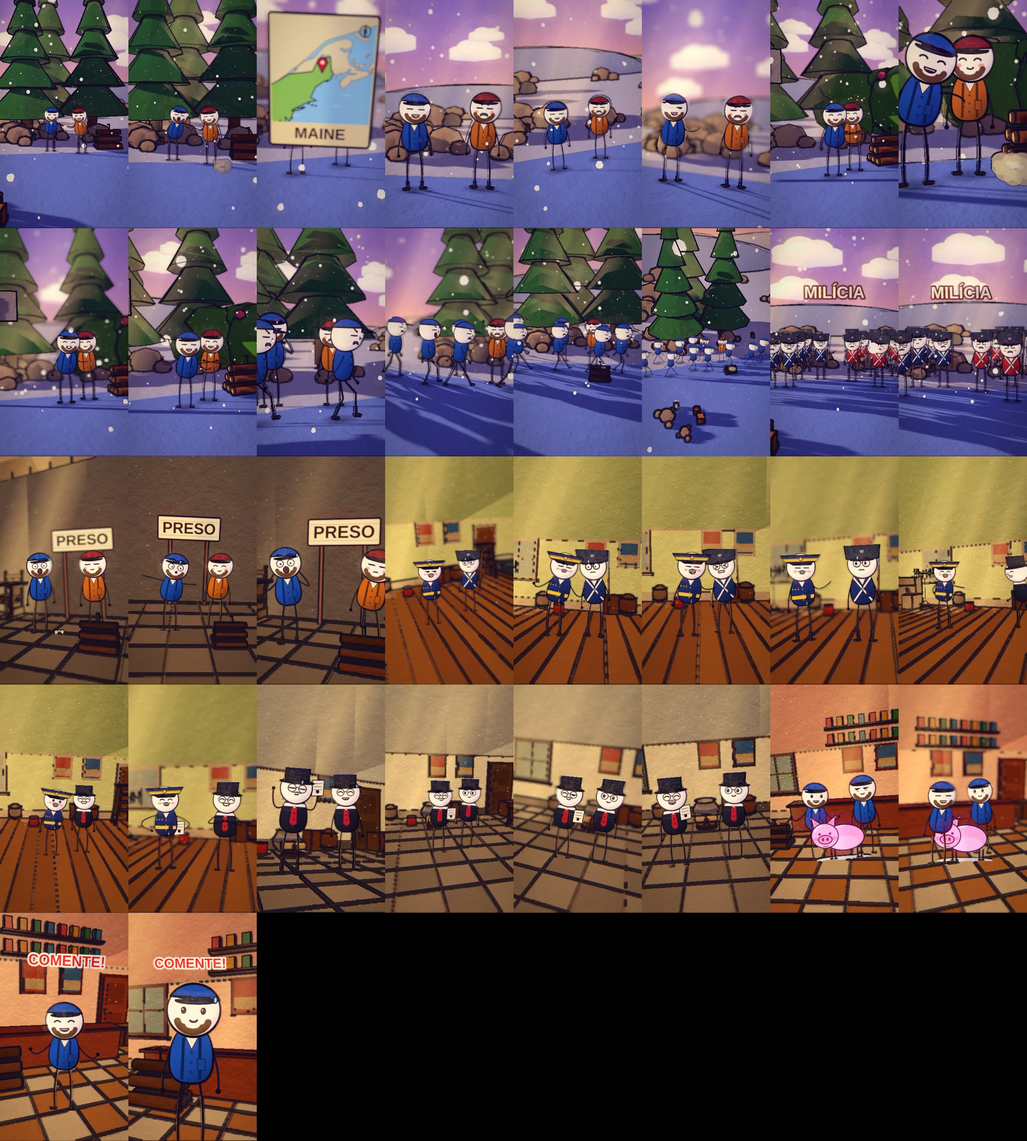
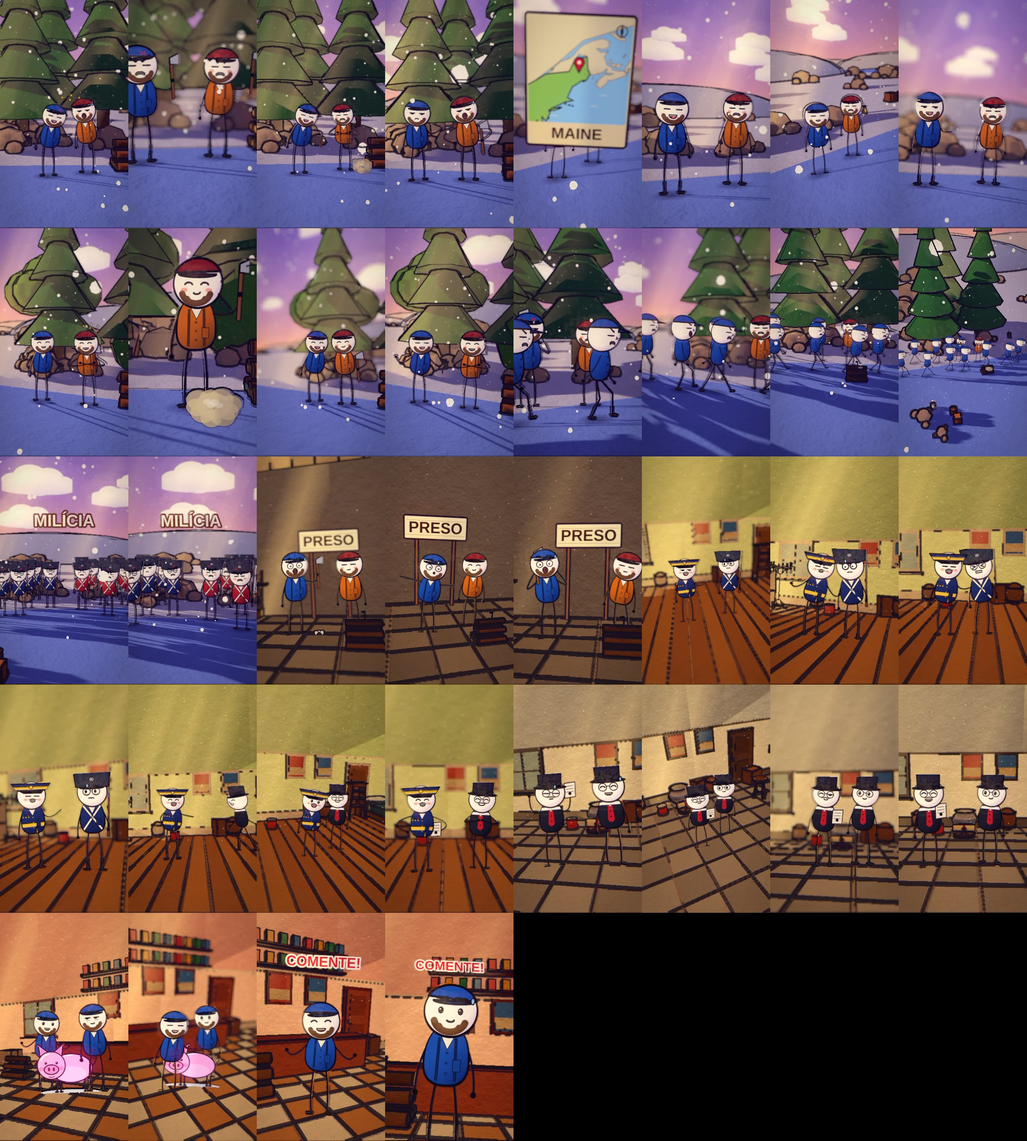
aroostook1838: render em andamento (4)
Claude-Session: https://claude.ai/code/session_01HE8Dy2XpEMgdYAHCmWZFay

diff --git a/ferramenta-shorts/stories/aroostook1838/spec.js b/ferramenta-shorts/stories/aroostook1838/spec.js
@@ -15,7 +15,7 @@ const SPEC = {
   assets: ["kit/logs", "kit/prison", "kit/room_azul_stone", "kit/room_europa_stone", "kit/room_rosa_shop", "kit/room_verde_wood", "kit/scroll", "mk/Barrel", "mk/Bed_Twin1", "mk/Bookcase_2", "mk/Cabinet", "mk/CandleStick_Stand", "mk/Chair_1", "mk/Chest_Wood", "mk/Crate_Wooden", "mk/Nightstand_Shelf", "mk/Shelf_Small_Bottles", "mk/Stool", "mk/Table_Large", "mk/Vase_2", "mk/Workbench_Drawers", "nature/bush", "nature/tree_oak", "nature/tree_pine"],
   kicks: [], flashes: [],
   shots: [
-    S('b0', A[0], Math.round(A[0] + (A[1] - 1 + 1 - (A[0])) * 0.36) - 1, X, "arctic", { h: 2.3, d0: 9.8, d1: 8.8, az0: -6, az1: 8, cx: 0.0, cz: 1.2, wx: {"snow": 0.85, "wind": 0.5}, vary: false, hero: { hero: 'any', frame: 'medium', minH: 0.07, main: 2 }, actors: [_MA(pp(X, "AME", 0, -1.0, 1.3, "angry", { over: { hold: "axe" }, pose: 'argue', inter: { k: 'lunge', a: Math.round(A[0] + (A[1] - 1 - (A[0])) * 0.12), b: Math.round(A[0] + (A[1] - 1 - (A[0])) * 0.82), dir: 1, n: 2, ph: 0 } }), { gests: [[WS(14) - 8, WS(14) + 46, 'hammer']] }), pp(X, "CAN", 0, 1.0, 1.0, "angry", { over: { hold: "axe" }, pose: 'argue', inter: { k: 'lunge', a: Math.round(A[0] + (A[1] - 1 - (A[0])) * 0.2), b: Math.round(A[0] + (A[1] - 1 - (A[0])) * 0.9), dir: -1, n: 2, ph: 3.14 } })], props: [{ asset: "kit/logs", at: [X + 3.0, 0.6], s: 1.3, drop: false }, { asset: "nature/tree_pine", at: [X + -3.0, -5.5], s: 1.6 }, { asset: "nature/tree_pine", at: [X + 3.2, -6.5], s: 1.7 }, { asset: "nature/tree_pine", at: [X + -1.0, -9.0], s: 1.8 }], fx: [{ k: 'stars', a: A[0] + 6, b: A[0] + 40, at: [X + 0.3, DK + 1.6, 2.7], s: 0.8 }, { k: 'dust', a: WS(14) + 0, b: WS(14) + 16, at: [X + 1.3, DK + 0.2, 2.6], s: 0.5 }, { k: 'dust', a: WS(14) + 9, b: WS(14) + 25, at: [X + 1.3, DK + 0.2, 2.6], s: 0.5 }, { k: 'dust', a: WS(14) + 18, b: WS(14) + 34, at: [X + 1.3, DK + 0.2, 2.6], s: 0.5 }] }), { ...S('b0_d', Math.round(A[0] + (A[1] - 1 + 1 - (A[0])) * 0.36), Math.round(A[0] + (A[1] - 1 + 1 - (A[0])) * 0.6) - 1, X, "arctic", { h: 2.3, d0: 9.8, d1: 8.8, az0: -6, az1: 8, cx: 0.0, cz: 1.2, wx: {"snow": 0.85, "wind": 0.5}, vary: false, hero: { hero: 'none', detalhe: true }, actors: [_MA(pp(X, "AME", 0, -1.0, 1.3, "angry", { over: { hold: "axe" }, pose: 'stand' }), { gests: [[WS(14) - 8, WS(14) + 46, 'hammer']] }), pp(X, "CAN", 0, 1.0, 1.0, "angry", { over: { hold: "axe" }, pose: 'stand' })], props: [{ asset: "kit/logs", at: [X + 3.0, 0.6], s: 1.3, drop: false }, { asset: "nature/tree_pine", at: [X + -3.0, -5.5], s: 1.6, drop: false }, { asset: "nature/tree_pine", at: [X + 3.2, -6.5], s: 1.7, drop: false }, { asset: "nature/tree_pine", at: [X + -1.0, -9.0], s: 1.8, drop: false }], fx: [{ k: 'stars', a: A[0] + 6, b: A[0] + 40, at: [X + 0.3, DK + 1.6, 2.7], s: 0.8 }, { k: 'dust', a: WS(14) + 0, b: WS(14) + 16, at: [X + 1.3, DK + 0.2, 2.6], s: 0.5 }, { k: 'dust', a: WS(14) + 9, b: WS(14) + 25, at: [X + 1.3, DK + 0.2, 2.6], s: 0.5 }, { k: 'dust', a: WS(14) + 18, b: WS(14) + 34, at: [X + 1.3, DK + 0.2, 2.6], s: 0.5 }] }), cam: [{ f: Math.round(A[0] + (A[1] - 1 + 1 - (A[0])) * 0.36), at: [X + 0.3, DK + 0.975, 2.2], d: 5.46, az: -14, el: 7, fov: 44 }, { f: Math.round(A[0] + (A[1] - 1 + 1 - (A[0])) * 0.6) - 1, at: [X + 0.3, DK + 0.975, 2.2], d: 4.82, az: -8, el: 6, fov: 44 }], nocut: true, vary: false, glide: true, glideN: 34 }, { ...S('b0_v', Math.round(A[0] + (A[1] - 1 + 1 - (A[0])) * 0.6), A[1] - 1, X, "arctic", { h: 2.3, d0: 9.8, d1: 8.8, az0: -6, az1: 8, cx: 0.0, cz: 1.2, wx: {"snow": 0.85, "wind": 0.5}, vary: false, hero: { hero: 'any', frame: 'medium', minH: 0.07, main: 2 }, actors: [_MA(pp(X, "AME", 0, -1.0, 1.3, "angry", { over: { hold: "axe" }, pose: 'argue', inter: { k: 'lunge', a: Math.round(A[0] + (A[1] - 1 - (A[0])) * 0.12), b: Math.round(A[0] + (A[1] - 1 - (A[0])) * 0.82), dir: 1, n: 2, ph: 0 } }), { gests: [[WS(14) - 8, WS(14) + 46, 'hammer']] }), pp(X, "CAN", 0, 1.0, 1.0, "angry", { over: { hold: "axe" }, pose: 'argue', inter: { k: 'lunge', a: Math.round(A[0] + (A[1] - 1 - (A[0])) * 0.2), b: Math.round(A[0] + (A[1] - 1 - (A[0])) * 0.9), dir: -1, n: 2, ph: 3.14 } })], props: [{ asset: "kit/logs", at: [X + 3.0, 0.6], s: 1.3, drop: false }, { asset: "nature/tree_pine", at: [X + -3.0, -5.5], s: 1.6, drop: false }, { asset: "nature/tree_pine", at: [X + 3.2, -6.5], s: 1.7, drop: false }, { asset: "nature/tree_pine", at: [X + -1.0, -9.0], s: 1.8, drop: false }], fx: [{ k: 'stars', a: A[0] + 6, b: A[0] + 40, at: [X + 0.3, DK + 1.6, 2.7], s: 0.8 }, { k: 'dust', a: WS(14) + 0, b: WS(14) + 16, at: [X + 1.3, DK + 0.2, 2.6], s: 0.5 }, { k: 'dust', a: WS(14) + 9, b: WS(14) + 25, at: [X + 1.3, DK + 0.2, 2.6], s: 0.5 }, { k: 'dust', a: WS(14) + 18, b: WS(14) + 34, at: [X + 1.3, DK + 0.2, 2.6], s: 0.5 }] }), glide: true, glideN: 34 },
+    S('b0', A[0], Math.round(A[0] + (A[1] - 1 + 1 - (A[0])) * 0.36) - 1, X, "arctic", { h: 2.5, d0: 11.4, d1: 10.2, az0: -6, az1: 8, cx: 0.0, cz: 1.2, wx: {"snow": 0.85, "wind": 0.5}, vary: false, hero: { hero: 'any', frame: 'medium', minH: 0.07, main: 2 }, actors: [_MA(pp(X, "AME", 0, -1.0, 1.3, "angry", { over: { hold: "axe" }, pose: 'argue', inter: { k: 'lunge', a: Math.round(A[0] + (A[1] - 1 - (A[0])) * 0.12), b: Math.round(A[0] + (A[1] - 1 - (A[0])) * 0.82), dir: 1, n: 2, ph: 0 } }), { gests: [[WS(14) - 8, WS(14) + 46, 'hammer']] }), pp(X, "CAN", 0, 1.0, 1.0, "angry", { over: { hold: "axe" }, pose: 'argue', inter: { k: 'lunge', a: Math.round(A[0] + (A[1] - 1 - (A[0])) * 0.2), b: Math.round(A[0] + (A[1] - 1 - (A[0])) * 0.9), dir: -1, n: 2, ph: 3.14 } })], props: [{ asset: "kit/logs", at: [X + 3.0, 0.6], s: 1.3, drop: false }, { asset: "nature/tree_pine", at: [X + -3.0, -5.5], s: 1.6 }, { asset: "nature/tree_pine", at: [X + 3.2, -6.5], s: 1.7 }, { asset: "nature/tree_pine", at: [X + -1.0, -9.0], s: 1.8 }], fx: [{ k: 'stars', a: A[0] + 6, b: A[0] + 40, at: [X + 0.3, DK + 1.6, 2.7], s: 0.8 }, { k: 'dust', a: WS(14) + 0, b: WS(14) + 16, at: [X + 1.3, DK + 0.2, 2.6], s: 0.5 }, { k: 'dust', a: WS(14) + 9, b: WS(14) + 25, at: [X + 1.3, DK + 0.2, 2.6], s: 0.5 }, { k: 'dust', a: WS(14) + 18, b: WS(14) + 34, at: [X + 1.3, DK + 0.2, 2.6], s: 0.5 }] }), { ...S('b0_d', Math.round(A[0] + (A[1] - 1 + 1 - (A[0])) * 0.36), Math.round(A[0] + (A[1] - 1 + 1 - (A[0])) * 0.6) - 1, X, "arctic", { h: 2.5, d0: 11.4, d1: 10.2, az0: -6, az1: 8, cx: 0.0, cz: 1.2, wx: {"snow": 0.85, "wind": 0.5}, vary: false, hero: { hero: 'none', detalhe: true }, actors: [_MA(pp(X, "AME", 0, -1.0, 1.3, "angry", { over: { hold: "axe" }, pose: 'stand' }), { gests: [[WS(14) - 8, WS(14) + 46, 'hammer']] }), pp(X, "CAN", 0, 1.0, 1.0, "angry", { over: { hold: "axe" }, pose: 'stand' })], props: [{ asset: "kit/logs", at: [X + 3.0, 0.6], s: 1.3, drop: false }, { asset: "nature/tree_pine", at: [X + -3.0, -5.5], s: 1.6, drop: false }, { asset: "nature/tree_pine", at: [X + 3.2, -6.5], s: 1.7, drop: false }, { asset: "nature/tree_pine", at: [X + -1.0, -9.0], s: 1.8, drop: false }], fx: [{ k: 'stars', a: A[0] + 6, b: A[0] + 40, at: [X + 0.3, DK + 1.6, 2.7], s: 0.8 }, { k: 'dust', a: WS(14) + 0, b: WS(14) + 16, at: [X + 1.3, DK + 0.2, 2.6], s: 0.5 }, { k: 'dust', a: WS(14) + 9, b: WS(14) + 25, at: [X + 1.3, DK + 0.2, 2.6], s: 0.5 }, { k: 'dust', a: WS(14) + 18, b: WS(14) + 34, at: [X + 1.3, DK + 0.2, 2.6], s: 0.5 }] }), cam: [{ f: Math.round(A[0] + (A[1] - 1 + 1 - (A[0])) * 0.36), at: [X + 0.3, DK + 0.975, 2.2], d: 5.46, az: -14, el: 7, fov: 44 }, { f: Math.round(A[0] + (A[1] - 1 + 1 - (A[0])) * 0.6) - 1, at: [X + 0.3, DK + 0.975, 2.2], d: 4.82, az: -8, el: 6, fov: 44 }], nocut: true, vary: false, glide: true, glideN: 34 }, { ...S('b0_v', Math.round(A[0] + (A[1] - 1 + 1 - (A[0])) * 0.6), A[1] - 1, X, "arctic", { h: 2.5, d0: 11.4, d1: 10.2, az0: -6, az1: 8, cx: 0.0, cz: 1.2, wx: {"snow": 0.85, "wind": 0.5}, vary: false, hero: { hero: 'any', frame: 'medium', minH: 0.07, main: 2 }, actors: [_MA(pp(X, "AME", 0, -1.0, 1.3, "angry", { over: { hold: "axe" }, pose: 'argue', inter: { k: 'lunge', a: Math.round(A[0] + (A[1] - 1 - (A[0])) * 0.12), b: Math.round(A[0] + (A[1] - 1 - (A[0])) * 0.82), dir: 1, n: 2, ph: 0 } }), { gests: [[WS(14) - 8, WS(14) + 46, 'hammer']] }), pp(X, "CAN", 0, 1.0, 1.0, "angry", { over: { hold: "axe" }, pose: 'argue', inter: { k: 'lunge', a: Math.round(A[0] + (A[1] - 1 - (A[0])) * 0.2), b: Math.round(A[0] + (A[1] - 1 - (A[0])) * 0.9), dir: -1, n: 2, ph: 3.14 } })], props: [{ asset: "kit/logs", at: [X + 3.0, 0.6], s: 1.3, drop: false }, { asset: "nature/tree_pine", at: [X + -3.0, -5.5], s: 1.6, drop: false }, { asset: "nature/tree_pine", at: [X + 3.2, -6.5], s: 1.7, drop: false }, { asset: "nature/tree_pine", at: [X + -1.0, -9.0], s: 1.8, drop: false }], fx: [{ k: 'stars', a: A[0] + 6, b: A[0] + 40, at: [X + 0.3, DK + 1.6, 2.7], s: 0.8 }, { k: 'dust', a: WS(14) + 0, b: WS(14) + 16, at: [X + 1.3, DK + 0.2, 2.6], s: 0.5 }, { k: 'dust', a: WS(14) + 9, b: WS(14) + 25, at: [X + 1.3, DK + 0.2, 2.6], s: 0.5 }, { k: 'dust', a: WS(14) + 18, b: WS(14) + 34, at: [X + 1.3, DK + 0.2, 2.6], s: 0.5 }] }), glide: true, glideN: 34 },
     S('b1', A[1], A[2] - 1, X, "arctic", { h: 2.3, d0: 9.8, d1: 8.8, az0: -26, az1: -12, wx: {"snow": 0.85, "wind": 0.5}, vary: false, hero: { hero: 'any', frame: 'medium', minH: 0.07, main: 2 }, trans: 'dissolve', actors: [_MA(pp(X, "AME", 0, -1.0, 1.3, "neutral", { pose: 'talk', inter: { k: 'shiver', a: Math.round(A[1] + (A[2] - 1 - (A[1])) * 0.12), b: Math.round(A[1] + (A[2] - 1 - (A[1])) * 0.82), dir: 1, n: 2, ph: 0 } }), { gests: [[WS(44) - 8, WS(44) + 46, 'point']] }), pp(X, "CAN", 0, 1.0, 1.0, "angry", { pose: 'talk', inter: { k: 'shiver', a: Math.round(A[1] + (A[2] - 1 - (A[1])) * 0.2), b: Math.round(A[1] + (A[2] - 1 - (A[1])) * 0.9), dir: -1, n: 2, ph: 3.14 } })], fx: [{ k: 'map', a: WS(21, -2), b: Math.min(A[2] - 1, WS(21, -2) + 54), text: "MAINE", geo: {"polys": [[90, 273, 206, 256, 234, 195, 292, 181, 299, 244, 311, 265, 293, 296, 266, 301, 242, 320, 224, 331, 200, 387, 231, 401, 191, 410, 113, 451, 112, 470, 92, 518, 69, 492, 79, 552, 60, 577, 44, 551, 46, 527, 45, 511, 36, 531, 34, 559, 12, 552, 24, 568, 42, 605, 44, 613, 57, 649, 37, 656, 38, 679, 25, 697, 2, 723, -46, 775, -83, 809, -101, 828, -108, 858, -84, 989, -88, 981, -102, 1110, -126, 1054, -139, 998, -150, 948, -226, 918, -254, 887, -289, 892, -330, 890, -355, 902, -356, 921, -351, 940, -377, 938, -427, 918, -480, 909, -515, 939, -563, 962, -579, 997, -586, 1060, -637, 1058, -673, 974, -731, 913, -794, 926, -881, 833, -1077, 814, -1183, 768, -1273, 718, -1316, 635, -1321, 589, -1323, 566, -1357, 546, -1384, 451, -1384, 339, -1364, 221, -1380, 199, -1381, 137, -1352, 172, -1337, 158, -1345, 182, -1328, 149, -1338, 126, -1262, 104, -983, 104, -704, 104, -510, 98, -440, 127, -362, 146, -242, 175, -189, 221, -136, 307, -133, 409, -40, 353, 57, 295], [155, 443, 153, 445, 155, 446, 157, 445, 158, 443, 162, 441, 165, 440, 166, 440, 168, 441, 171, 440, 174, 439, 161, 447, 158, 447, 154, 449, 151, 451, 148, 451, 135, 457, 134, 457, 133, 456, 122, 459, 118, 459, 114, 460, 117, 458, 117, 457, 116, 457, 115, 457, 113, 459, 111, 460, 110, 457, 111, 455, 112, 454, 115, 451, 118, 449, 120, 448, 121, 449, 122, 447, 123, 446, 124, 445, 126, 445, 128, 445, 129, 445, 130, 444, 133, 445, 135, 445, 138, 444, 140, 444, 146, 443, 152, 442, 154, 441, 160, 437, 163, 436, 158, 440, 155, 443], [284, 301, 282, 302, 281, 301, 281, 304, 280, 304, 278, 303, 277, 303, 278, 300, 279, 297, 281, 296, 283, 296, 284, 300, 284, 301], [105, 462, 104, 462, 105, 458, 108, 457, 109, 457, 109, 458, 109, 460, 107, 461, 105, 462], [215, 426, 207, 428, 205, 427, 208, 426, 210, 423, 212, 423, 215, 424, 215, 426], [193, 421, 192, 422, 190, 422, 191, 421, 191, 418, 192, 416, 193, 415, 193, 414, 193, 421], [231, 431, 229, 431, 223, 430, 228, 429, 228, 428, 229, 426, 229, 425, 231, 429, 231, 431], [190, 421, 189, 422, 188, 420, 189, 418, 190, 418, 190, 419, 190, 421], [107, 498, 104, 504, 104, 503, 108, 495, 107, 498], [6206, 387, 6239, 260, 6313, 170, 6205, 125, 6093, 9, 6016, -80, 5864, 45, 5648, 86, 5447, 43, 5306, -12, 5228, 63, 5116, 37, 4991, 63, 4895, 76, 4759, 31, 4611, -94, 4508, -111, 4361, -164, 4160, -106, 4116, -30, 4033, 20, 3885, -2, 3749, 62, 3763, 198, 3715, 280, 3720, 423, 3614, 366, 3416, 256, 3452, 182, 3502, 101, 3392, 45, 3315, -38, 3289, -84, 3206, -186, 3129, -258, 3183, -362, 3210, -518, 3181, -652, 3251, -772, 3467, -716, 3264, -665, 3435, -527, 3568, -636, 3705, -695, 3877, -717, 4052, -740, 4331, -723, 4381, -911, 4490, -691, 4542, -697, 4511, -752, 4581, -837, 4722, -869, 4791, -832, 4896, -943, 4909, -1000, 5213, -1041, 5412, -1113, 5658, -1058, 5563, -956, 5644, -944, 5842, -932, 6083, -927, 6163, -859, 6421, -836, 6593, -899, 6734, -884, 7076, -792, 7379, -735, -3006, -724, -2873, -635, -2820, -658, -2811, -598, -2834, -547, -3008, -617, 7566, -576, 7637, -518, 7568, -464, 7371, -374, 7171, -325, 7169, -215, 7034, -50, 7029, -281, 7210, -477, 7088, -442, 6891, -329, 6743, -331, 6357, -157, 6431, -88, 6501, 60, 6285, 367], [-1557, -188, -1649, -281, -1749, -332, -1884, -400, -1803, -753, -1690, -763, -1623, -773, -1622, -759, -1611, -760, -1526, -773, -1413, -764, -1390, -759, -1170, -740, -1122, -698, -958, -696, -900, -649, -900, -690, -858, -720, -826, -725, -685, -693, -580, -695, -563, -712, -528, -658, -528, -702, -499, -742, -509, -768, -557, -838, -472, -852, -431, -794, -382, -765, -366, -718, -315, -708, -229, -734, -222, -777, -109, -737, -118, -689, -197, -651, -214, -628, -328, -603, -304, -586, -361, -530, -474, -530, -399, -486, -444, -456, -487, -418, -491, -304, -398, -246, -208, -162, -136, -69, -71, 7, -37, -12, -40, -106, 36, -214, 4, -349, -3, -408, 93, -452, 163, -430, 240, -403, 243, -349, 255, -316, 294, -289, 349, -309, 378, -336, 400, -365, 432, -317, 465, -276, 467, -223, 501, -189, 535, -146, 560, -110, 554, -97, 644, -91, 631, -10, 444, 48, 270, 106, 146, 219, 4, 331, -158, 407, -180, 226, -303, 140, -447, 123, -628, 104, -1085, 104, -1353, 98, -1377, 72, -1406, 48, -1450, 35, -1458, -11, -1472, -40, -1505, -42, -1519, -94, -1553, -118, -1559, -180], [495, 233, 496, 233, 500, 231, 502, 231, 502, 233, 499, 234, 497, 235, 499, 236, 499, 237, 497, 239, 495, 241, 496, 243, 500, 241, 502, 241, 504, 241, 506, 241, 507, 240, 514, 233, 514, 232, 507, 233, 506, 232, 511, 228, 510, 225, 513, 222, 515, 220, 517, 218, 519, 217, 521, 219, 521, 222, 525, 222, 529, 222, 532, 224, 532, 224, 532, 226, 531, 228, 530, 230, 533, 232, 533, 233, 528, 235, 525, 238, 522, 241, 516, 245, 508, 248, 505, 248, 502, 247, 499, 247, 496, 248, 493, 248, 491, 248, 490, 248, 488, 247, 486, 244, 485, 242, 483, 233, 484, 228, 486, 223, 489, 220, 491, 218, 499, 203, 500, 200, 502, 197, 505, 194, 510, 189, 511, 188, 513, 188, 516, 188, 515, 190, 515, 191, 518, 198, 518, 199, 516, 204, 514, 213, 513, 218, 513, 219, 512, 221, 511, 223, 506, 226, 503, 227, 501, 228, 495, 233], [316, 266, 311, 265, 308, 264, 306, 258, 305, 253, 307, 249, 302, 246, 297, 244, 296, 239, 296, 236, 296, 229, 296, 204, 292, 181, 279, 173, 265, 179, 259, 176, 253, 168, 241, 185, 229, 206, 222, 224, 221, 234, 216, 243, 210, 253, 206, 256, 203, 262, 199, 260, 188, 264, 148, 272, 98, 272, 103, 265, 125, 253, 133, 236, 156, 215, 167, 207, 193, 198, 219, 183, 236, 162, 260, 134, 277, 123, 316, 105, 364, 92, 401, 107, 394, 110, 398, 128, 384, 137, 368, 145, 349, 139, 336, 141, 339, 143, 359, 159, 372, 154, 388, 157, 376, 178, 378, 184, 382, 193, 388, 209, 393, 220, 413, 224, 418, 236, 429, 240, 441, 240, 451, 245, 462, 242, 472, 242, 485, 245, 487, 255, 497, 260, 490, 263, 479, 267, 461, 275, 436, 285, 425, 288, 422, 292, 414, 293, 407, 290, 400, 292, 399, 303, 388, 314, 374, 326, 368, 333, 362, 334, 353, 324, 345, 323, 353, 291, 347, 294, 359, 287, 362, 284, 382, 268, 395, 258, 398, 265, 403, 266, 428, 257, 399, 256, 384, 258, 392, 246, 397, 238, 390, 234, 377, 250, 351, 263, 347, 256, 345, 263, 334, 267, 322, 267], [474, 99, 462, 100, 452, 97, 445, 96, 437, 94, 422, 86, 420, 84, 418, 81, 415, 78, 412, 76, 396, 68, 394, 66, 398, 64, 402, 63, 405, 63, 416, 66, 430, 69, 436, 71, 443, 73, 449, 77, 464, 86, 467, 87, 474, 91, 476, 95, 477, 98, 476, 99, 474, 99], [414, 211, 415, 211, 417, 210, 418, 207, 423, 207, 425, 209, 426, 209, 428, 209, 430, 211, 435, 213, 440, 212, 447, 211, 448, 211, 456, 210, 464, 210, 466, 211, 467, 212, 468, 213, 463, 215, 459, 219, 453, 222, 452, 223, 452, 226, 452, 229, 453, 229, 454, 230, 453, 231, 446, 232, 444, 231, 442, 230, 441, 227, 439, 228, 438, 228, 442, 225, 440, 222, 438, 222, 437, 221, 437, 219, 439, 218, 439, 217, 437, 218, 435, 220, 433, 220, 431, 222, 434, 222, 432, 224, 430, 224, 422, 221, 420, 221, 417, 218, 415, 215, 416, 215, 416, 214, 416, 214, 413, 213, 408, 213, 406, 212, 406, 207, 405, 205, 402, 204, 397, 203, 397, 201, 398, 198, 400, 195, 402, 192, 404, 190, 409, 185, 409, 189, 409, 192, 406, 198, 412, 203, 412, 205, 413, 206, 412, 208, 412, 209, 414, 209, 414, 211], [534, 318, 530, 319, 527, 319, 525, 318, 524, 317, 530, 318, 532, 317, 536, 315, 534, 318], [499, 252, 498, 252, 498, 252, 496, 250, 496, 249, 497, 248, 501, 249, 500, 251, 499, 252], [471, 176, 472, 177, 474, 177, 475, 177, 473, 179, 470, 179, 468, 178, 471, 170, 473, 168, 479, 163, 482, 161, 484, 161, 486, 161, 484, 164, 481, 164, 478, 167, 476, 170, 473, 171, 472, 173, 471, 176], [394, 151, 393, 154, 390, 156, 389, 156, 388, 156, 389, 154, 389, 152, 391, 151, 392, 151, 394, 151], [395, 147, 391, 150, 393, 146, 393, 146, 394, 145, 394, 145, 395, 147], [341, 303, 340, 304, 340, 303, 342, 299, 343, 298, 341, 303], [327, 286, 323, 288, 324, 283, 325, 281, 327, 282, 327, 285, 327, 286], [124, 253, 122, 254, 118, 253, 113, 254, 112, 254, 115, 251, 120, 249, 125, 243, 127, 243, 125, 250, 124, 252, 124, 253], [120, 248, 117, 249, 115, 248, 119, 244, 124, 243, 120, 248], [200, 193, 197, 194, 198, 192, 201, 190, 204, 188, 206, 188, 203, 191, 200, 193]], "hl": [0, 1, 2, 3, 4, 5, 6, 7, 8], "pin": [254.0, 260.0]} }] }),
     S('b2', A[2], Math.round(A[2] + (A[3] - 1 + 1 - (A[2])) * 0.36) - 1, X, "arctic", { h: 2.5, d0: 11.4, d1: 10.2, az0: 16, az1: 30, wx: {"snow": 0.85, "wind": 0.5}, vary: false, hero: { hero: 'any', frame: 'medium', minH: 0.07, main: 2 }, trans: 'dissolve', actors: [_MA(pp(X, "AME", 0, -1.0, 1.3, "smug", { over: { hold: "axe" }, pose: 'argue', inter: { k: 'step', a: Math.round(A[2] + (A[3] - 1 - (A[2])) * 0.12), b: Math.round(A[2] + (A[3] - 1 - (A[2])) * 0.82), dir: 1, n: 2, ph: 0 } }), { gests: [[WS(49) - 8, Math.max(WS(49) + 14, WS(53) - 5), 'hammer'], [WS(53) - 8, WS(53) + 46, 'hammer']] }), pp(X, "CAN", 0, 1.0, 1.0, "smug", { over: { hold: "axe" }, pose: 'argue', inter: { k: 'nod', a: Math.round(A[2] + (A[3] - 1 - (A[2])) * 0.2), b: Math.round(A[2] + (A[3] - 1 - (A[2])) * 0.9), dir: -1, n: 2, ph: 3.14 } })], props: [{ asset: "kit/logs", at: [X + 3.0, 0.6], s: 1.3, drop: false }, { asset: "nature/tree_pine", at: [X + -3.0, -5.5], s: 1.6 }, { asset: "nature/tree_pine", at: [X + 3.2, -6.5], s: 1.7 }, { asset: "nature/tree_oak", at: [X + -5.0, -9.0], s: 1.5 }, { asset: "nature/bush", at: [X + 6.5, -4.5], s: 4.1 }], fx: [{ k: 'stars', a: A[2] + 6, b: A[2] + 40, at: [X + 1.2, DK + 1.6, 1.1], s: 0.8 }, { k: 'dust', a: WS(49) + 0, b: WS(49) + 16, at: [X + 1.3, DK + 0.2, 2.6], s: 0.5 }, { k: 'dust', a: WS(49) + 9, b: WS(49) + 25, at: [X + 1.3, DK + 0.2, 2.6], s: 0.5 }, { k: 'dust', a: WS(49) + 18, b: WS(49) + 34, at: [X + 1.3, DK + 0.2, 2.6], s: 0.5 }, { k: 'dust', a: WS(53) + 0, b: WS(53) + 16, at: [X + 1.3, DK + 0.2, 2.6], s: 0.5 }, { k: 'dust', a: WS(53) + 9, b: WS(53) + 25, at: [X + 1.3, DK + 0.2, 2.6], s: 0.5 }, { k: 'dust', a: WS(53) + 18, b: WS(53) + 34, at: [X + 1.3, DK + 0.2, 2.6], s: 0.5 }] }), { ...S('b2_d', Math.round(A[2] + (A[3] - 1 + 1 - (A[2])) * 0.36), Math.round(A[2] + (A[3] - 1 + 1 - (A[2])) * 0.6) - 1, X, "arctic", { h: 2.5, d0: 11.4, d1: 10.2, az0: 16, az1: 30, wx: {"snow": 0.85, "wind": 0.5}, vary: false, hero: { hero: 'none', detalhe: true }, trans: 'cut', actors: [_MA(pp(X, "AME", 0, -1.0, 1.3, "smug", { over: { hold: "axe" }, pose: 'stand' }), { gests: [[WS(49) - 8, Math.max(WS(49) + 14, WS(53) - 5), 'hammer'], [WS(53) - 8, WS(53) + 46, 'hammer']] }), pp(X, "CAN", 0, 1.0, 1.0, "smug", { over: { hold: "axe" }, pose: 'stand' })], props: [{ asset: "kit/logs", at: [X + 3.0, 0.6], s: 1.3, drop: false }, { asset: "nature/tree_pine", at: [X + -3.0, -5.5], s: 1.6, drop: false }, { asset: "nature/tree_pine", at: [X + 3.2, -6.5], s: 1.7, drop: false }, { asset: "nature/tree_oak", at: [X + -5.0, -9.0], s: 1.5, drop: false }, { asset: "nature/bush", at: [X + 6.5, -4.5], s: 4.1, drop: false }], fx: [{ k: 'stars', a: A[2] + 6, b: A[2] + 40, at: [X + 1.2, DK + 1.6, 1.1], s: 0.8 }, { k: 'dust', a: WS(49) + 0, b: WS(49) + 16, at: [X + 1.3, DK + 0.2, 2.6], s: 0.5 }, { k: 'dust', a: WS(49) + 9, b: WS(49) + 25, at: [X + 1.3, DK + 0.2, 2.6], s: 0.5 }, { k: 'dust', a: WS(49) + 18, b: WS(49) + 34, at: [X + 1.3, DK + 0.2, 2.6], s: 0.5 }, { k: 'dust', a: WS(53) + 0, b: WS(53) + 16, at: [X + 1.3, DK + 0.2, 2.6], s: 0.5 }, { k: 'dust', a: WS(53) + 9, b: WS(53) + 25, at: [X + 1.3, DK + 0.2, 2.6], s: 0.5 }, { k: 'dust', a: WS(53) + 18, b: WS(53) + 34, at: [X + 1.3, DK + 0.2, 2.6], s: 0.5 }] }), cam: [{ f: Math.round(A[2] + (A[3] - 1 + 1 - (A[2])) * 0.36), at: [X + 1.2, DK + 0.975, 0.6], d: 5.46, az: -14, el: 7, fov: 44 }, { f: Math.round(A[2] + (A[3] - 1 + 1 - (A[2])) * 0.6) - 1, at: [X + 1.2, DK + 0.975, 0.6], d: 4.82, az: -8, el: 6, fov: 44 }], nocut: true, vary: false, glide: true, glideN: 34 }, { ...S('b2_v', Math.round(A[2] + (A[3] - 1 + 1 - (A[2])) * 0.6), A[3] - 1, X, "arctic", { h: 2.5, d0: 11.4, d1: 10.2, az0: 16, az1: 30, wx: {"snow": 0.85, "wind": 0.5}, vary: false, hero: { hero: 'any', frame: 'medium', minH: 0.07, main: 2 }, trans: 'cut', actors: [_MA(pp(X, "AME", 0, -1.0, 1.3, "smug", { over: { hold: "axe" }, pose: 'argue', inter: { k: 'step', a: Math.round(A[2] + (A[3] - 1 - (A[2])) * 0.12), b: Math.round(A[2] + (A[3] - 1 - (A[2])) * 0.82), dir: 1, n: 2, ph: 0 } }), { gests: [[WS(49) - 8, Math.max(WS(49) + 14, WS(53) - 5), 'hammer'], [WS(53) - 8, WS(53) + 46, 'hammer']] }), pp(X, "CAN", 0, 1.0, 1.0, "smug", { over: { hold: "axe" }, pose: 'argue', inter: { k: 'nod', a: Math.round(A[2] + (A[3] - 1 - (A[2])) * 0.2), b: Math.round(A[2] + (A[3] - 1 - (A[2])) * 0.9), dir: -1, n: 2, ph: 3.14 } })], props: [{ asset: "kit/logs", at: [X + 3.0, 0.6], s: 1.3, drop: false }, { asset: "nature/tree_pine", at: [X + -3.0, -5.5], s: 1.6, drop: false }, { asset: "nature/tree_pine", at: [X + 3.2, -6.5], s: 1.7, drop: false }, { asset: "nature/tree_oak", at: [X + -5.0, -9.0], s: 1.5, drop: false }, { asset: "nature/bush", at: [X + 6.5, -4.5], s: 4.1, drop: false }], fx: [{ k: 'stars', a: A[2] + 6, b: A[2] + 40, at: [X + 1.2, DK + 1.6, 1.1], s: 0.8 }, { k: 'dust', a: WS(49) + 0, b: WS(49) + 16, at: [X + 1.3, DK + 0.2, 2.6], s: 0.5 }, { k: 'dust', a: WS(49) + 9, b: WS(49) + 25, at: [X + 1.3, DK + 0.2, 2.6], s: 0.5 }, { k: 'dust', a: WS(49) + 18, b: WS(49) + 34, at: [X + 1.3, DK + 0.2, 2.6], s: 0.5 }, { k: 'dust', a: WS(53) + 0, b: WS(53) + 16, at: [X + 1.3, DK + 0.2, 2.6], s: 0.5 }, { k: 'dust', a: WS(53) + 9, b: WS(53) + 25, at: [X + 1.3, DK + 0.2, 2.6], s: 0.5 }, { k: 'dust', a: WS(53) + 18, b: WS(53) + 34, at: [X + 1.3, DK + 0.2, 2.6], s: 0.5 }] }), glide: true, glideN: 34 },
     { ...{ ...S('b3', A[3], Math.round(A[3] + (A[4] - 1 + 1 - (A[3])) * 0.3) - 1, X, "arctic", { h: 2.6, d0: 25.0, d1: 19.0, el: 11, fov: 46, cx: 0.0, cz: -1.5, wx: {"snow": 0.85, "wind": 0.5}, hero: { hero: 'none', wide: true }, vary: false, nocut: true, trans: 'dissolve', actors: [_MA(pp(X, "AME", 0, -1.0, -0.4, "shout", { over: { hold: "axe" } }), { gests: [[WS(74) - 8, Math.max(WS(74) + 14, WS(84) - 5), 'point'], [WS(84) - 8, WS(84) + 46, 'hammer']] }), pp(X, "CAN", 0, 1.0, 0.2, "angry"), { outfit: "AME", v: 0, at: [X + -17.05, 0.84], move: [[X + -5.05, 0.84], A[3], A[4] - 1, 'lin'], pose: 'march', speed: 0.034, expr: "angry", seed: 0, look: -0.25 }, { outfit: "AME", v: 1, at: [X + -14.79, 1.32], move: [[X + -2.79, 1.32], A[3], A[4] - 1, 'lin'], pose: 'march', speed: 0.034, expr: "angry", seed: 1, look: 0.25 }, { outfit: "AME", v: 2, at: [X + -12.53, 0.96], move: [[X + -0.53, 0.96], A[3], A[4] - 1, 'lin'], pose: 'march', speed: 0.034, expr: "angry", seed: 2, look: 0.0 }, { outfit: "AME", v: 3, at: [X + -11.26, 1.44], move: [[X + 0.74, 1.44], A[3], A[4] - 1, 'lin'], pose: 'march', speed: 0.034, expr: "angry", seed: 3, look: 0.15 }, { outfit: "AME", v: 0, at: [X + -9.0, 1.08], move: [[X + 3.0, 1.08], A[3], A[4] - 1, 'lin'], pose: 'march', speed: 0.034, expr: "angry", seed: 0, look: -0.25 }, { outfit: "AME", v: 1, at: [X + -6.74, 1.56], move: [[X + 5.26, 1.56], A[3], A[4] - 1, 'lin'], pose: 'march', speed: 0.034, expr: "angry", seed: 1, look: 0.25 }, { outfit: "AME", v: 2, at: [X + -5.47, 1.2], move: [[X + 6.53, 1.2], A[3], A[4] - 1, 'lin'], pose: 'march', speed: 0.034, expr: "angry", seed: 2, look: 0.0 }, { outfit: "AME", v: 3, at: [X + -3.21, 0.84], move: [[X + 8.79, 0.84], A[3], A[4] - 1, 'lin'], pose: 'march', speed: 0.034, expr: "angry", seed: 3, look: 0.15 }, { outfit: "AME", v: 0, at: [X + -0.95, 1.32], move: [[X + 11.05, 1.32], A[3], A[4] - 1, 'lin'], pose: 'march', speed: 0.034, expr: "angry", seed: 0, look: -0.25 }, { outfit: "AME", v: 1, at: [X + -15.88, -1.14], move: [[X + -3.88, -1.14], A[3], A[4] - 1, 'lin'], pose: 'march', speed: 0.034, expr: "angry", seed: 1, look: 0.25 }, { outfit: "AME", v: 2, at: [X + -13.62, -0.66], move: [[X + -1.62, -0.66], A[3], A[4] - 1, 'lin'], pose: 'march', speed: 0.034, expr: "angry", seed: 2, look: 0.0 }, { outfit: "AME", v: 3, at: [X + -12.35, -1.02], move: [[X + -0.35, -1.02], A[3], A[4] - 1, 'lin'], pose: 'march', speed: 0.034, expr: "angry", seed: 3, look: 0.15 }], props: [{ asset: "nature/tree_pine", at: [X + -3.0, -5.5], s: 1.6 }, { asset: "nature/tree_pine", at: [X + 3.2, -6.5], s: 1.7 }, { asset: "nature/tree_pine", at: [X + -1.0, -9.0], s: 1.8 }, { asset: 'kit/logs', a: Math.max(A[3] + 4, WS(84) - 30), b: A[4] - 1, at: [X + 1.3, 2.2], s: 0.8, drop: false }], fx: [{ k: 'dust', a: WS(84) + 0, b: WS(84) + 16, at: [X + 1.3, DK + 0.2, 2.6], s: 0.5 }, { k: 'dust', a: WS(84) + 9, b: WS(84) + 25, at: [X + 1.3, DK + 0.2, 2.6], s: 0.5 }, { k: 'dust', a: WS(84) + 18, b: WS(84) + 34, at: [X + 1.3, DK + 0.2, 2.6], s: 0.5 }] }), nocut: true }, cam: [{ f: A[3], at: [X + 0.0, DK + 2.2, 0.5], d: 8.5, az: -26, el: 2, fov: 44 }, { f: Math.round(A[3] + (A[4] - 1 + 1 - (A[3])) * 0.3) - 1, at: [X + 1.0, DK + 2.2, 0.5], d: 7.4, az: -14, el: 3, fov: 44 }], nocut: true, vary: false }, { ...{ ...S('b3_1', Math.round(A[3] + (A[4] - 1 + 1 - (A[3])) * 0.3), Math.round(A[3] + (A[4] - 1 + 1 - (A[3])) * 0.55) - 1, X, "arctic", { h: 2.6, d0: 25.0, d1: 19.0, el: 11, fov: 46, cx: 0.0, cz: -1.5, wx: {"snow": 0.85, "wind": 0.5}, hero: { hero: 'none', wide: true }, vary: false, nocut: true, trans: 'cut', actors: [_MA(pp(X, "AME", 0, -1.0, -0.4, "shout", { over: { hold: "axe" } }), { gests: [[WS(74) - 8, Math.max(WS(74) + 14, WS(84) - 5), 'point'], [WS(84) - 8, WS(84) + 46, 'hammer']] }), pp(X, "CAN", 0, 1.0, 0.2, "angry"), { outfit: "AME", v: 0, at: [X + -17.05, 0.84], move: [[X + -5.05, 0.84], A[3], A[4] - 1, 'lin'], pose: 'march', speed: 0.034, expr: "angry", seed: 0, look: -0.25 }, { outfit: "AME", v: 1, at: [X + -14.79, 1.32], move: [[X + -2.79, 1.32], A[3], A[4] - 1, 'lin'], pose: 'march', speed: 0.034, expr: "angry", seed: 1, look: 0.25 }, { outfit: "AME", v: 2, at: [X + -12.53, 0.96], move: [[X + -0.53, 0.96], A[3], A[4] - 1, 'lin'], pose: 'march', speed: 0.034, expr: "angry", seed: 2, look: 0.0 }, { outfit: "AME", v: 3, at: [X + -11.26, 1.44], move: [[X + 0.74, 1.44], A[3], A[4] - 1, 'lin'], pose: 'march', speed: 0.034, expr: "angry", seed: 3, look: 0.15 }, { outfit: "AME", v: 0, at: [X + -9.0, 1.08], move: [[X + 3.0, 1.08], A[3], A[4] - 1, 'lin'], pose: 'march', speed: 0.034, expr: "angry", seed: 0, look: -0.25 }, { outfit: "AME", v: 1, at: [X + -6.74, 1.56], move: [[X + 5.26, 1.56], A[3], A[4] - 1, 'lin'], pose: 'march', speed: 0.034, expr: "angry", seed: 1, look: 0.25 }, { outfit: "AME", v: 2, at: [X + -5.47, 1.2], move: [[X + 6.53, 1.2], A[3], A[4] - 1, 'lin'], pose: 'march', speed: 0.034, expr: "angry", seed: 2, look: 0.0 }, { outfit: "AME", v: 3, at: [X + -3.21, 0.84], move: [[X + 8.79, 0.84], A[3], A[4] - 1, 'lin'], pose: 'march', speed: 0.034, expr: "angry", seed: 3, look: 0.15 }, { outfit: "AME", v: 0, at: [X + -0.95, 1.32], move: [[X + 11.05, 1.32], A[3], A[4] - 1, 'lin'], pose: 'march', speed: 0.034, expr: "angry", seed: 0, look: -0.25 }, { outfit: "AME", v: 1, at: [X + -15.88, -1.14], move: [[X + -3.88, -1.14], A[3], A[4] - 1, 'lin'], pose: 'march', speed: 0.034, expr: "angry", seed: 1, look: 0.25 }, { outfit: "AME", v: 2, at: [X + -13.62, -0.66], move: [[X + -1.62, -0.66], A[3], A[4] - 1, 'lin'], pose: 'march', speed: 0.034, expr: "angry", seed: 2, look: 0.0 }, { outfit: "AME", v: 3, at: [X + -12.35, -1.02], move: [[X + -0.35, -1.02], A[3], A[4] - 1, 'lin'], pose: 'march', speed: 0.034, expr: "angry", seed: 3, look: 0.15 }], props: [{ asset: "nature/tree_pine", at: [X + -3.0, -5.5], s: 1.6, drop: false }, { asset: "nature/tree_pine", at: [X + 3.2, -6.5], s: 1.7, drop: false }, { asset: "nature/tree_pine", at: [X + -1.0, -9.0], s: 1.8, drop: false }, { asset: 'kit/logs', a: Math.max(A[3] + 4, WS(84) - 30), b: A[4] - 1, at: [X + 1.3, 2.2], s: 0.8, drop: false }], fx: [{ k: 'dust', a: WS(84) + 0, b: WS(84) + 16, at: [X + 1.3, DK + 0.2, 2.6], s: 0.5 }, { k: 'dust', a: WS(84) + 9, b: WS(84) + 25, at: [X + 1.3, DK + 0.2, 2.6], s: 0.5 }, { k: 'dust', a: WS(84) + 18, b: WS(84) + 34, at: [X + 1.3, DK + 0.2, 2.6], s: 0.5 }] }), nocut: true }, cam: [{ f: Math.round(A[3] + (A[4] - 1 + 1 - (A[3])) * 0.3), at: [X + -6.0, DK + 1.8, 0.0], d: 11, az: 30, el: 5, fov: 46 }, { f: Math.round(A[3] + (A[4] - 1 + 1 - (A[3])) * 0.55) - 1, at: [X + 4.0, DK + 1.8, 0.0], d: 11, az: 18, el: 5, fov: 46, ease: "lin" }], nocut: true, vary: false, glide: true }, { ...{ ...S('b3_2', Math.round(A[3] + (A[4] - 1 + 1 - (A[3])) * 0.55), A[4] - 1, X, "arctic", { h: 2.6, d0: 25.0, d1: 19.0, el: 11, fov: 46, cx: 0.0, cz: -1.5, wx: {"snow": 0.85, "wind": 0.5}, hero: { hero: 'none', wide: true }, vary: false, nocut: true, trans: 'cut', actors: [_MA(pp(X, "AME", 0, -1.0, -0.4, "shout", { over: { hold: "axe" } }), { gests: [[WS(74) - 8, Math.max(WS(74) + 14, WS(84) - 5), 'point'], [WS(84) - 8, WS(84) + 46, 'hammer']] }), pp(X, "CAN", 0, 1.0, 0.2, "angry"), { outfit: "AME", v: 0, at: [X + -17.05, 0.84], move: [[X + -5.05, 0.84], A[3], A[4] - 1, 'lin'], pose: 'march', speed: 0.034, expr: "angry", seed: 0, look: -0.25 }, { outfit: "AME", v: 1, at: [X + -14.79, 1.32], move: [[X + -2.79, 1.32], A[3], A[4] - 1, 'lin'], pose: 'march', speed: 0.034, expr: "angry", seed: 1, look: 0.25 }, { outfit: "AME", v: 2, at: [X + -12.53, 0.96], move: [[X + -0.53, 0.96], A[3], A[4] - 1, 'lin'], pose: 'march', speed: 0.034, expr: "angry", seed: 2, look: 0.0 }, { outfit: "AME", v: 3, at: [X + -11.26, 1.44], move: [[X + 0.74, 1.44], A[3], A[4] - 1, 'lin'], pose: 'march', speed: 0.034, expr: "angry", seed: 3, look: 0.15 }, { outfit: "AME", v: 0, at: [X + -9.0, 1.08], move: [[X + 3.0, 1.08], A[3], A[4] - 1, 'lin'], pose: 'march', speed: 0.034, expr: "angry", seed: 0, look: -0.25 }, { outfit: "AME", v: 1, at: [X + -6.74, 1.56], move: [[X + 5.26, 1.56], A[3], A[4] - 1, 'lin'], pose: 'march', speed: 0.034, expr: "angry", seed: 1, look: 0.25 }, { outfit: "AME", v: 2, at: [X + -5.47, 1.2], move: [[X + 6.53, 1.2], A[3], A[4] - 1, 'lin'], pose: 'march', speed: 0.034, expr: "angry", seed: 2, look: 0.0 }, { outfit: "AME", v: 3, at: [X + -3.21, 0.84], move: [[X + 8.79, 0.84], A[3], A[4] - 1, 'lin'], pose: 'march', speed: 0.034, expr: "angry", seed: 3, look: 0.15 }, { outfit: "AME", v: 0, at: [X + -0.95, 1.32], move: [[X + 11.05, 1.32], A[3], A[4] - 1, 'lin'], pose: 'march', speed: 0.034, expr: "angry", seed: 0, look: -0.25 }, { outfit: "AME", v: 1, at: [X + -15.88, -1.14], move: [[X + -3.88, -1.14], A[3], A[4] - 1, 'lin'], pose: 'march', speed: 0.034, expr: "angry", seed: 1, look: 0.25 }, { outfit: "AME", v: 2, at: [X + -13.62, -0.66], move: [[X + -1.62, -0.66], A[3], A[4] - 1, 'lin'], pose: 'march', speed: 0.034, expr: "angry", seed: 2, look: 0.0 }, { outfit: "AME", v: 3, at: [X + -12.35, -1.02], move: [[X + -0.35, -1.02], A[3], A[4] - 1, 'lin'], pose: 'march', speed: 0.034, expr: "angry", seed: 3, look: 0.15 }], props: [{ asset: "nature/tree_pine", at: [X + -3.0, -5.5], s: 1.6, drop: false }, { asset: "nature/tree_pine", at: [X + 3.2, -6.5], s: 1.7, drop: false }, { asset: "nature/tree_pine", at: [X + -1.0, -9.0], s: 1.8, drop: false }, { asset: 'kit/logs', a: Math.max(A[3] + 4, WS(84) - 30), b: A[4] - 1, at: [X + 1.3, 2.2], s: 0.8, drop: false }], fx: [{ k: 'dust', a: WS(84) + 0, b: WS(84) + 16, at: [X + 1.3, DK + 0.2, 2.6], s: 0.5 }, { k: 'dust', a: WS(84) + 9, b: WS(84) + 25, at: [X + 1.3, DK + 0.2, 2.6], s: 0.5 }, { k: 'dust', a: WS(84) + 18, b: WS(84) + 34, at: [X + 1.3, DK + 0.2, 2.6], s: 0.5 }] }), nocut: true }, cam: [{ f: Math.round(A[3] + (A[4] - 1 + 1 - (A[3])) * 0.55), at: [X + 0.0, DK + 1.4, 0.0], d: 15, az: 8, el: 12, fov: 48 }, { f: A[4] - 1, at: [X + 0.0, DK + 1.0, -3.0], d: 34, az: -16, el: 30, fov: 48 }], nocut: true, vary: false, glide: true },

diff --git a/ferramenta-shorts/stories/aroostook1838/revisao_storyboard.md b/ferramenta-shorts/stories/aroostook1838/revisao_storyboard.md
@@ -1,8 +1,8 @@
 pesquisa: o quadro de referencias mostra o mapa da fronteira do Maine com New Brunswick, mapa de 1820, gravura de lenhador de casaco de la e chapeu, moda de 1838, litografia e medalha do general Winfield Scott de uniforme azul, placa do tratado de 1842 e cabeca de machado de ferro; comparei figurino e fardas e agora a estacao: a historia e' em fevereiro de 1839 e o cenario passou de verao verde para neve com pinheiros.
-defeitos procurados: cenario (floresta nevada nas cenas b0 a b4, mapa sem estudio quadriculado, salas de madeira e pedra, loja), epoca (inverno de 1839 com neve caindo, machado de ferro e nao de bronze, chapeus de 1839), tamanho (personagens e toras no mesmo porte), cortado (b0 em plano aberto sem ninguem cortado na borda), multidao (b3 voluntarios azuis marchando, b4 milicia azul de um lado e vermelhos do outro com corredor), legenda (MILICIA e PRESO acima da faixa da legenda), acao (corta aparece como poeira e toras sem o machado visivel: limite do motor, ver pendencias_motor), objeto (toras herois visiveis, tratado em papel, porco).
-b0: CORRIGIDO - uma guerra entre os Estados Unidos e a Inglaterra quase aconteceu por causa de lenhadores: estava em campo verde de verao com personagem cortado na borda -> agora pinheiros com neve, os dois lenhadores inteiros em plano aberto ao lado das toras.
+defeitos procurados: cenario (floresta nevada nas cenas b0 a b4, mapa sem estudio quadriculado, salas de madeira e pedra, loja), epoca (inverno de 1839 com neve caindo, machado de ferro e nao de bronze, chapeus de 1839), tamanho (personagens e toras no mesmo porte), cortado (b0 em plano aberto sem ninguem cortado na borda), multidao (b3 voluntarios azuis marchando, b4 milicia azul de um lado e vermelhos do outro com corredor), legenda (MILICIA e PRESO acima da faixa da legenda), acao (corta com machado na mao, poeira e toras), objeto (toras herois visiveis, tratado em papel, porco).
+b0: CORRIGIDO (agora em plano medio com os dois lenhadores segurando machado, neve e toras; um quadro do movimento de camera encosta o boneco azul na borda esquerda) - uma guerra entre os Estados Unidos e a Inglaterra quase aconteceu por causa de lenhadores: estava em campo verde de verao com personagem cortado na borda -> agora pinheiros com neve, os dois lenhadores inteiros em plano aberto ao lado das toras.
 b1: CORRIGIDO - a fronteira do Maine e a colonia inglesa de New Brunswick era disputada: estava no estudio azul quadriculado -> agora o mapa do Maine aparece sobre a neve e os dois lenhadores discutem na mata.
-b2: OK - lenhadores dos dois lados cortavam as mesmas arvores na mata de pinheiros nevada, toras e poeira da acao corta; o machado nao aparece na mao (limite do motor).
+b2: CORRIGIDO - lenhadores dos dois lados cortavam as mesmas arvores na mata de pinheiros nevada com so poeira e sem machado -> agora os dois lenhadores seguram o machado de ferro (hold axe do motor novo) ao lado das toras e da poeira da acao corta.
 b3: OK - o Maine mandou o agente de terras com voluntarios para prender os lenhadores: voluntarios azuis marchando pela neve ao lado dos pinheiros.
 b4: OK - o Maine chamou milhares de soldados da milicia e a colonia inglesa mandou os seus: milicia azul de um lado, soldados vermelhos do outro, neve e sem tiros.
 b5: OK - lenhadores de New Brunswick prenderam o agente do Maine na cela de pedra com a placa PRESO e expressao de susto no americano.

diff --git a/ferramenta-shorts/stories/aroostook1838/cronograma.md b/ferramenta-shorts/stories/aroostook1838/cronograma.md
@@ -1,12 +1,12 @@
 # CRONOGRAMA - Guerras Inusitadas EP 19 - A Guerra de Aroostook
 
-Gerado em 24/11 05:41 | 11 cenas | metricas: acoes_encenadas 100%, acoes_chave_com_efeito 100%, explicacoes_cobertas 100%, cenario_e_epoca_ok 100%
+Gerado em 24/11 08:22 | 11 cenas | metricas: acoes_encenadas 100%, acoes_chave_com_efeito 100%, explicacoes_cobertas 100%, cenario_e_epoca_ok 100%
 
 ## 1. Plano de cenas (o que cada frase vai mostrar)
 
 Cena | Classe | Cenario | Camera | Quem | Multidao | Objetos | Efeito planejado | Frase
 ---|---|---|---|---|---|---|---|---
-b0 | simples | arctic | two | AME, CAN | - | logs, tree_pine | - | Uma guerra entre os Estados Unidos e a Inglaterra quase aconteceu por 
+b0 | simples | arctic | group | AME, CAN | - | logs, tree_pine | - | Uma guerra entre os Estados Unidos e a Inglaterra quase aconteceu por 
 b1 | simples | arctic | two | AME, CAN | - | - | - | Em mil oitocentos e trinta e oito, a fronteira entre o estado do Maine
 b2 | simples | arctic | group | AME, CAN | - | logs, bush, tree_oak, tree_pine | - | Na mata de Aroostook, lenhadores dos dois lados cortavam as mesmas árv
 b3 | chave | arctic | reveal | AME, CAN | 12 | tree_pine | corpo: tropa/personagens encenam a batalha; emissao: claroes de tiro, fumaca e poeira; luz: clarao; camera: 4 cameras em | Em fevereiro de mil oitocentos e trinta e nove, o Maine mandou o agent
@@ -30,12 +30,12 @@ N | Etapa | O que confere | Estado | Proximo passo
 6 | Estilo e enquadramento | autoajuste de luz/cor e ajuste de camera de cada tomada | FEITO | 
 7 | Gates | camera OK, todas as tomadas OK, estilo OK | FEITO | 
 8 | Storyboard e grade de acoes | video inteiro em quadros + 1 quadro no instante de cada acao | FEITO | 
-9 | Revisao escrita e aprovacao | uma linha por frase conferindo com a folha 3 e com o quadro da pesquisa | PENDENTE | ./aprovar_storyboard.sh aroostook1838
-10 | Render | todos os quadros renderizados nesta versao das folhas | REFAZER (a etapa anterior mudou) | 
-11 | Montagem e som | trechos + voz + musica + efeitos; volume normalizado | REFAZER (a etapa anterior mudou) | 
-12 | Conferencia | conferir.sh sem falha e folha de contato olhada | REFAZER (a etapa anterior mudou) | ./conferir.sh aroostook1838
+9 | Revisao escrita e aprovacao | uma linha por frase conferindo com a folha 3 e com o quadro da pesquisa | FEITO | 
+10 | Render | todos os quadros renderizados nesta versao das folhas | PENDENTE | 
+11 | Montagem e som | trechos + voz + musica + efeitos; volume normalizado | BLOQUEADO (etapa anterior pendente) | 
+12 | Conferencia | conferir.sh sem falha e folha de contato olhada | BLOQUEADO (etapa anterior pendente) | ./conferir.sh aroostook1838
 13 | Auditoria das acoes | 1 quadro do mp4 em cada palavra de acao | REFAZER (a etapa anterior mudou) | bash auditar_acoes.sh local aroostook1838 <mp4>
 14 | Entrega | mp4 original 1080x1920 enviado; commit e push | BLOQUEADO (etapa anterior pendente) | 
 
-**Etapa atual:** 9. Revisao escrita e aprovacao
+**Etapa atual:** 10. Render
 

diff --git a/ferramenta-shorts/stories/aroostook1838/folha2_producao.md b/ferramenta-shorts/stories/aroostook1838/folha2_producao.md
@@ -4,7 +4,7 @@ Coordenadas de cada cena para modelagem, animacao e camera, com os RISCOS que o 
 
 ## Cena b0 - Uma guerra entre os Estados Unidos e a Inglaterra quase aconteceu por ...
 - Cenario: arctic | luz: day | clima: neve
-- Camera: two = plano medio nos dois; camera empurra devagar e muda de angulo a cada ~2 s + CLOSE NO OBJETO no meio da cena (vai e volta)
+- Camera: group = plano de grupo (corpo inteiro); angulo muda a cada ~2 s + CLOSE NO OBJETO no meio da cena (vai e volta)
 - Takes: 4 take(s) de ~1,8 s, deslizando de um para o outro: direita baixa -> frente -> 3/4 pela direita, mais perto e mais baixo -> 3/4 pela esquerda, mais alto e aberto | no meio: desliza ate o objeto (close), segura ~1,5 s e volta
 - Personagens principais (2): AME (variante 0, expressao angry, segura axe); CAN (variante 0, expressao angry, segura axe) | multidao: 0 de 
 - Animacao: discutir | interacao: discutir

diff --git a/ferramenta-shorts/stories/aroostook1838/plano.md b/ferramenta-shorts/stories/aroostook1838/plano.md
@@ -2,7 +2,7 @@
 
 Cena | Plano | Luz/clima | O que aparece | Palavras-chave com efeito + som | Palavras de acao SEM efeito
 ---|---|---|---|---|---
-b0 | two | - neve | tropa, objeto na mao | encena: corta (hammer) @14 (acao + som de efeito) | -
+b0 | group | - neve | tropa, objeto na mao | encena: corta (hammer) @14 (acao + som de efeito) | -
 b1 | two | - neve | mapa | encena: x_discute (point) @23 (acao + som de efeito) | -
 b2 | group | - neve | objeto na mao | encena: corta (hammer) @4 (acao + som de efeito); encena: corta (hammer) @8 (acao + som de efeito) | -
 b3 | reveal | - neve | batalha aberta com tiros, tropa | encena: fala (point) @11 (acao + som de efeito); encena: corta (hammer) @21 (acao + som de efeito) | -

diff --git a/ferramenta-shorts/stories/aroostook1838/preproducao.md b/ferramenta-shorts/stories/aroostook1838/preproducao.md
@@ -4,7 +4,7 @@ Leia ANTES de renderizar. Tudo que estiver em "FALTA" deve ser modelado no Blend
 
 Cena | Cenario | Plano | Personagens | Acao dos personagens | Objetos em cena | Na mao | Falta
 ---|---|---|---|---|---|---|---
-b0 | arctic | two | 2 | discutir, INTERAGEM: discutir | kit/logs, nature/tree_pine | axe, axe | -
+b0 | arctic | group | 2 | discutir, INTERAGEM: discutir | kit/logs, nature/tree_pine | axe, axe | -
 b1 | arctic | two | 2 | conversar, INTERAGEM: tremem de frio | - | - | -
 b2 | arctic | group | 2 | discutir, INTERAGEM: vai ate o outro | kit/logs, nature/tree_pine, nature/tree_oak, nature/bush | axe, axe | -
 b3 | arctic | reveal | 14 | encena, batalha | nature/tree_pine | - | -

diff --git a/ferramenta-shorts/stories/aroostook1838/folha3_acao.md b/ferramenta-shorts/stories/aroostook1838/folha3_acao.md
@@ -4,7 +4,7 @@ Catalogo de TODAS as acoes do roteiro, frase por frase, com o instante (segundos
 **Resumo:** 11 frases, 37 acoes catalogadas, 37 com animacao, 0 faltando -> pronto para renderizar
 
 
-## Cena b0 - 0.2s a 5.5s - 21 palavras - plano two
+## Cena b0 - 0.2s a 5.5s - 21 palavras - plano group
 > "Uma guerra entre os Estados Unidos e a Inglaterra quase aconteceu por causa de lenhadores, e ninguém foi morto pelo inimigo."
 
 | # | palavra (instante) | acao catalogada | animacao executada | ok? |
